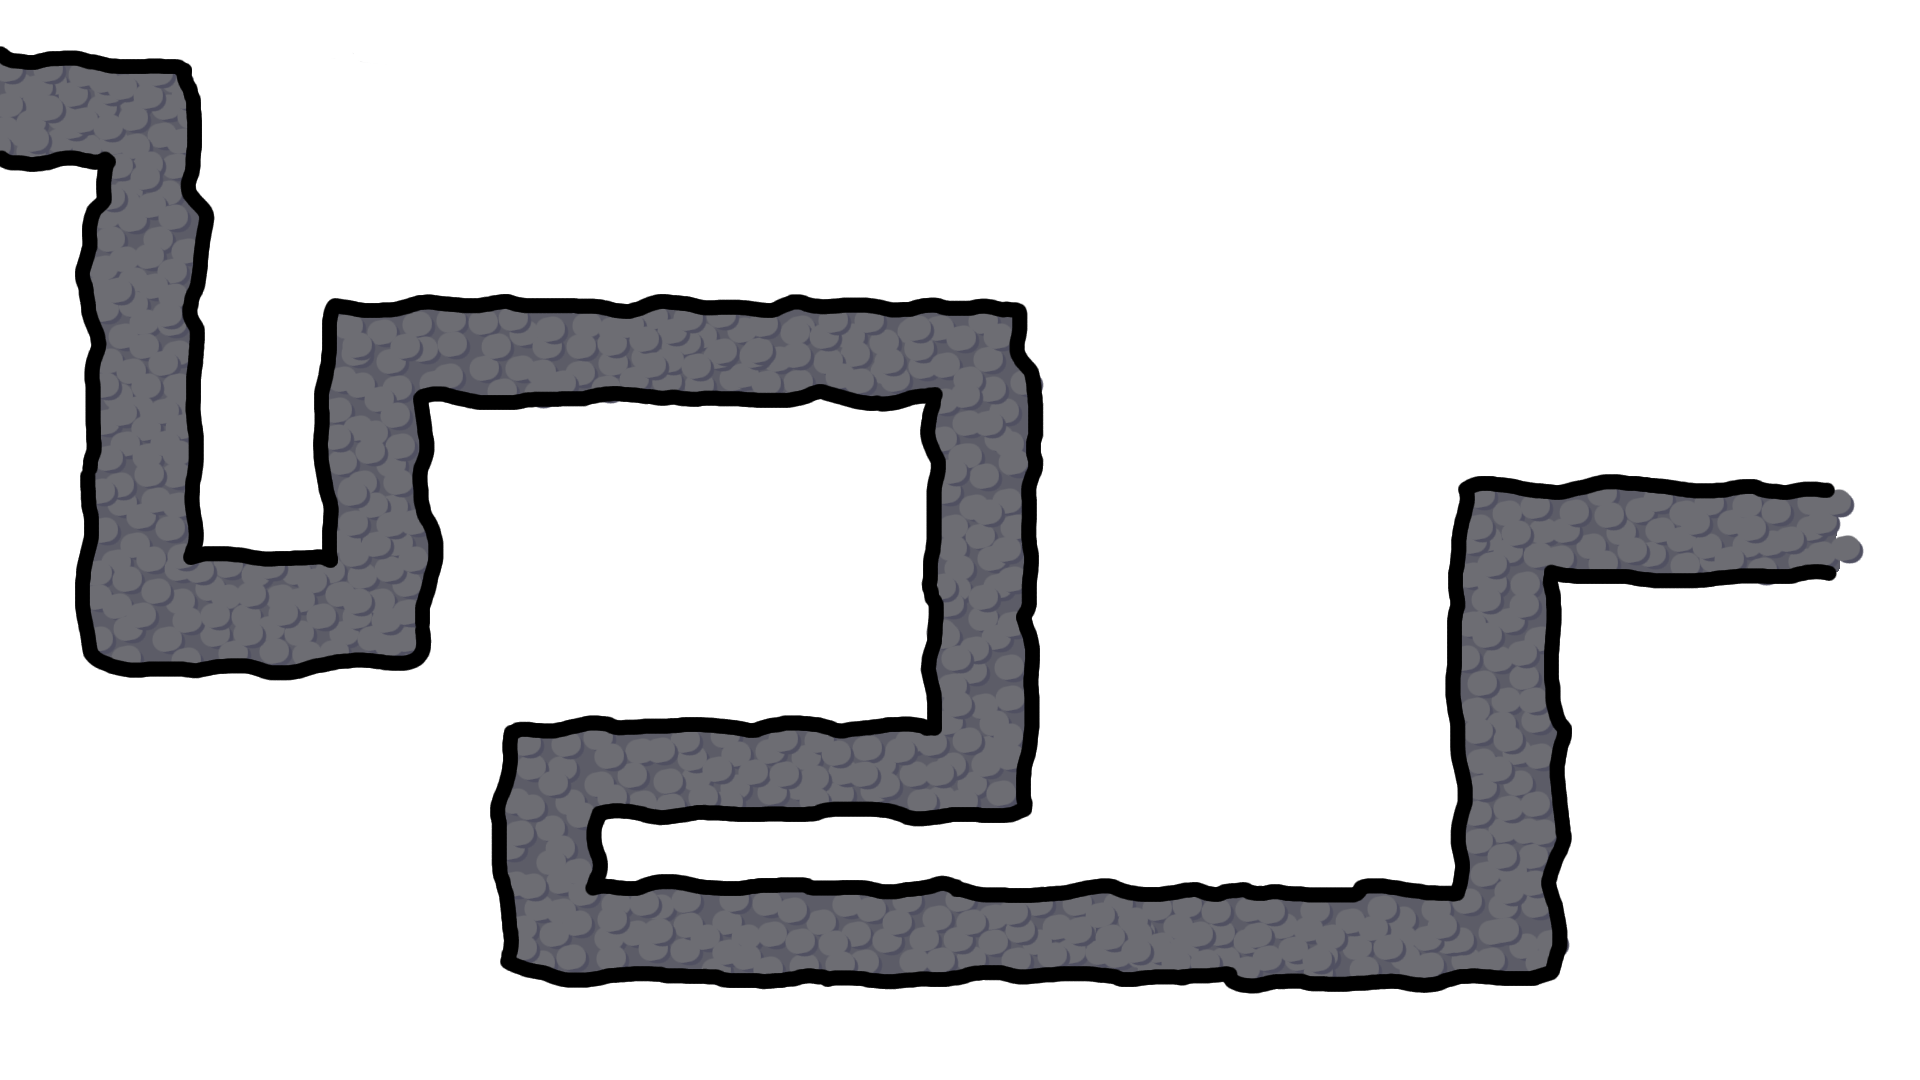
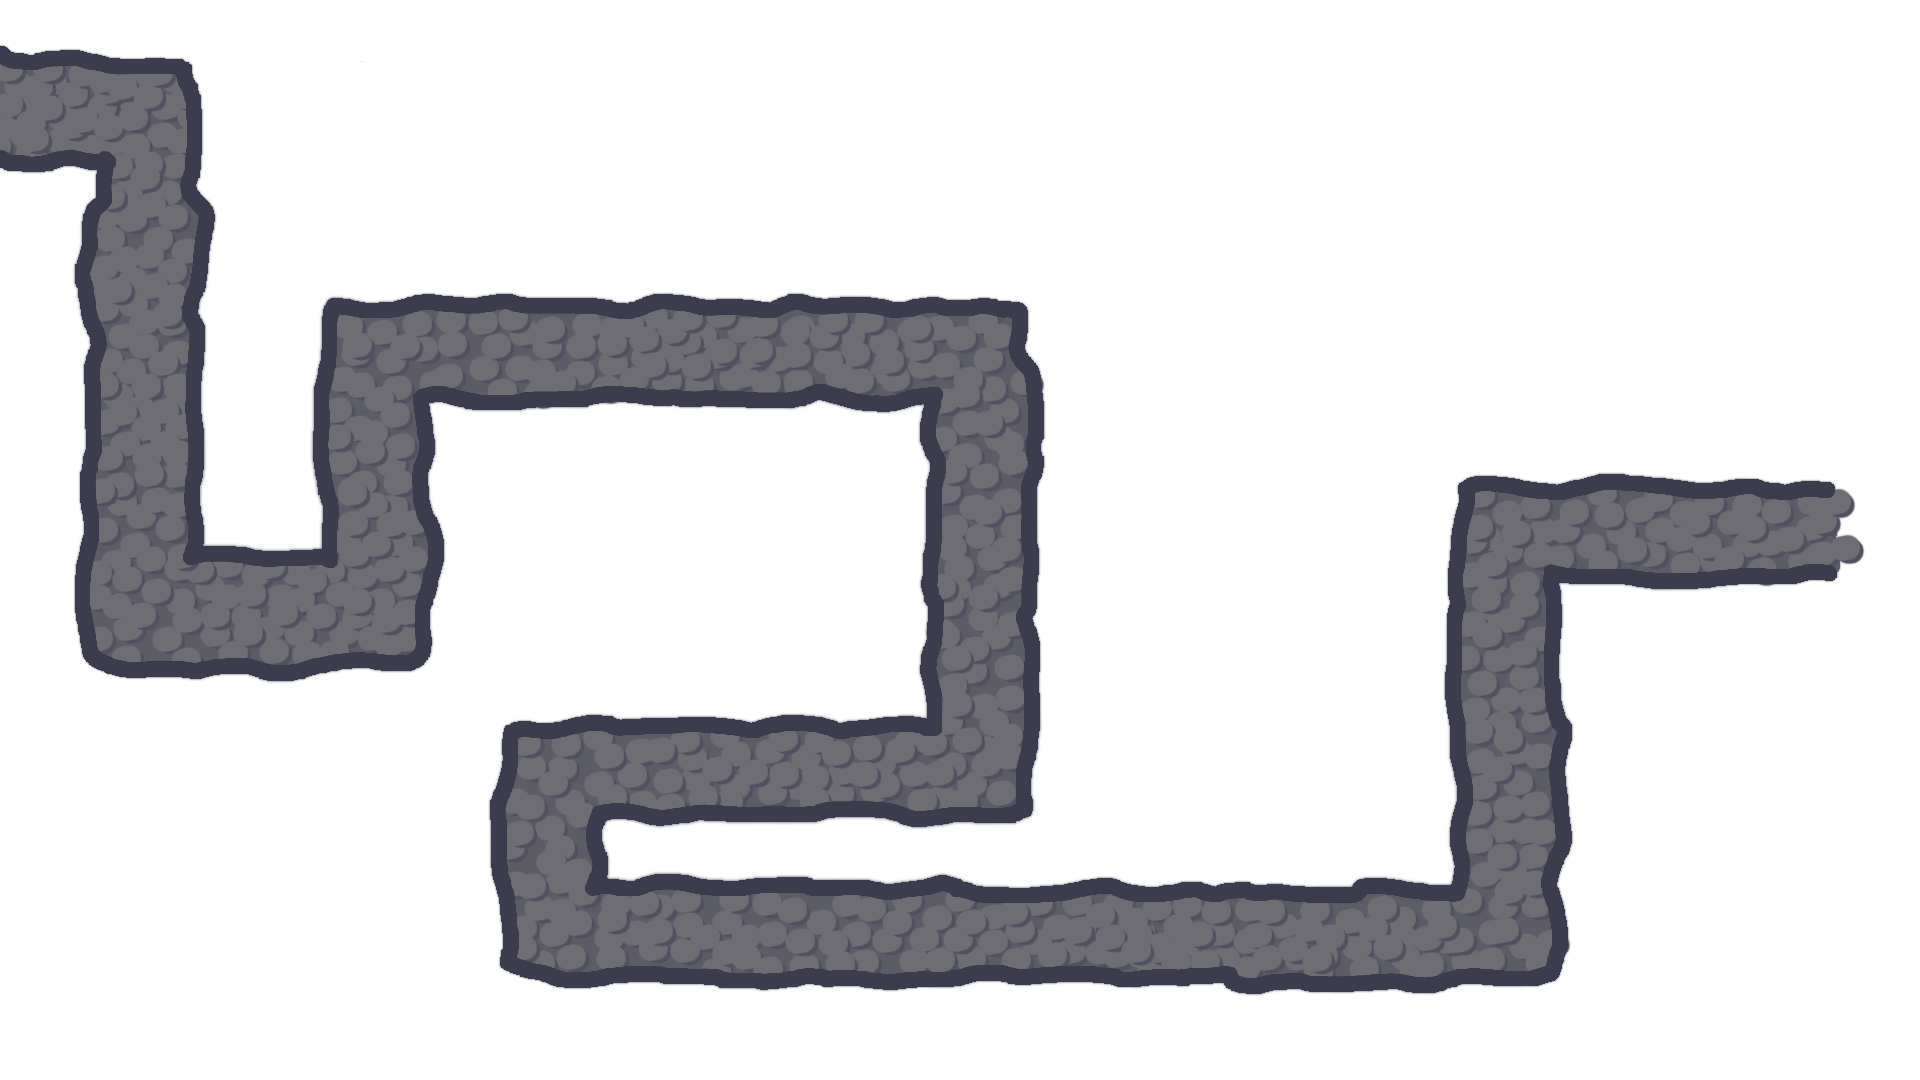
Added art and city hurt animation

Changed region(s): [[0.0, 0.0306, 0.9688, 0.9167]]

diff --git a/Scripts/City.cs b/Scripts/City.cs
@@ -4,9 +4,11 @@ using System;
 public partial class City : Area2D
 {
 	private GameManager gameManager = null;
+	private AnimationPlayer animationPlayer = null;
 
 	public override void _Ready() {
 		gameManager = GetNode<GameManager>("%GameManager");
+		animationPlayer = GetNode<AnimationPlayer>("./AnimationPlayer");
 	}
 
 	private void OnAreaEntered(Area2D area) {
@@ -17,5 +19,6 @@ public partial class City : Area2D
 		Lamanite enteredEnemy = area.GetParent<Lamanite>();
 		gameManager.updateHealth(-enteredEnemy.getAttackDamage());
 		enteredEnemy.QueueFree();
+		animationPlayer.Play(name: "attacked");
 	}
 }
